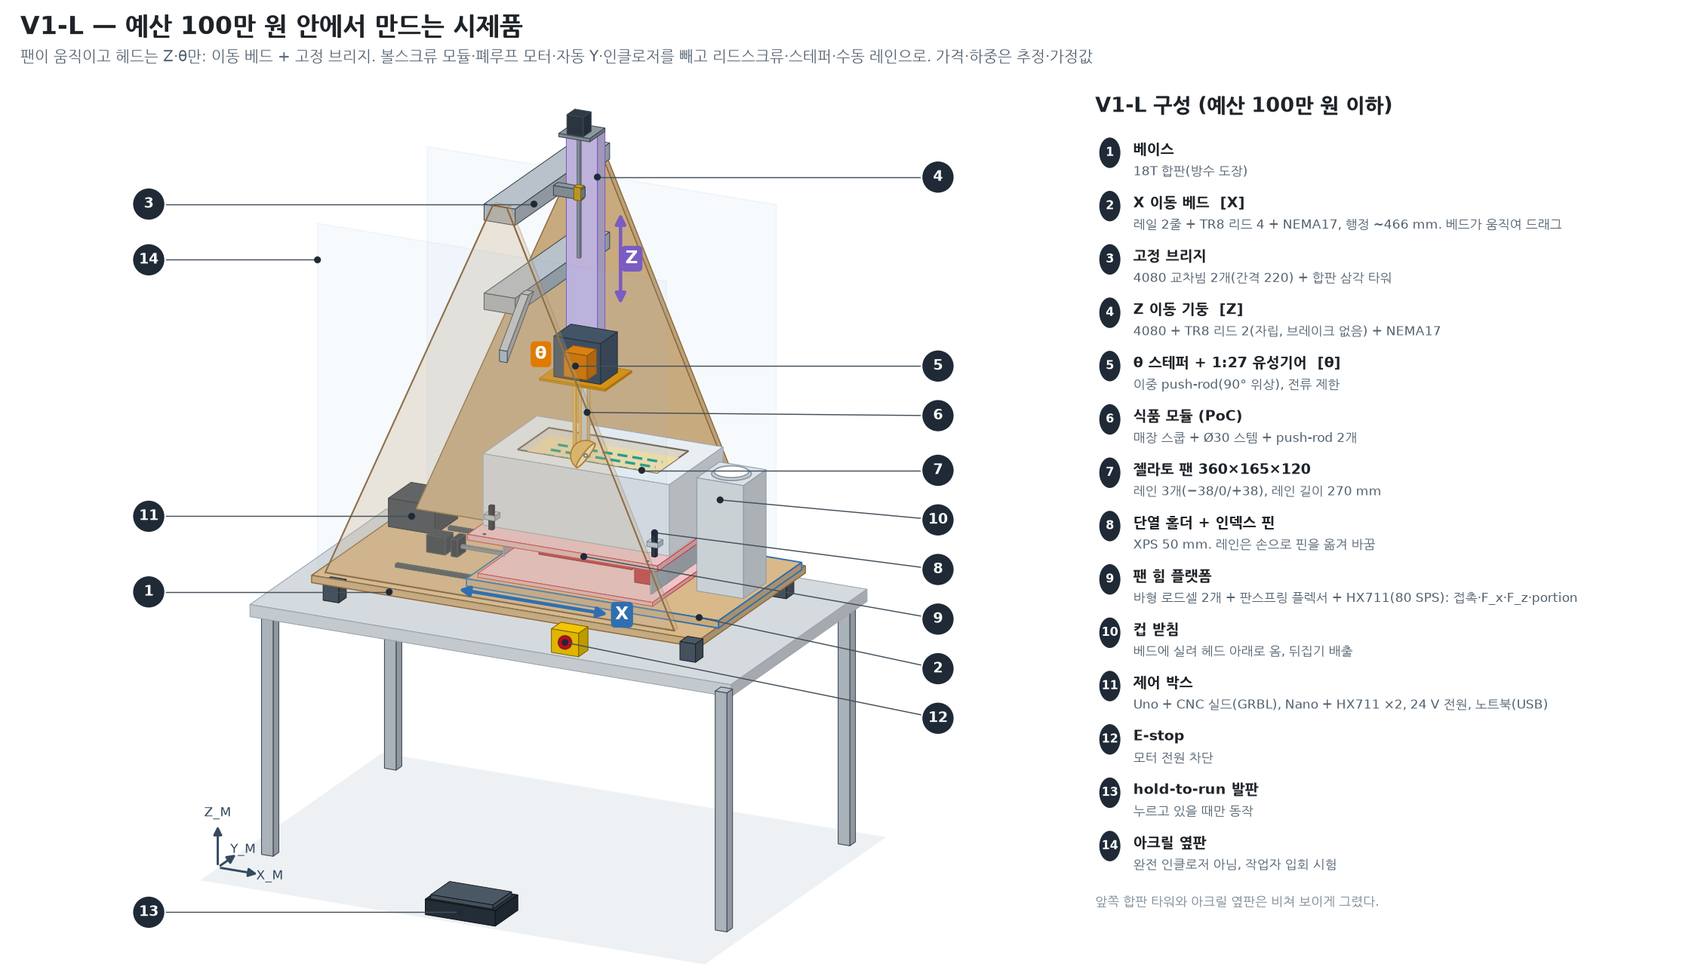
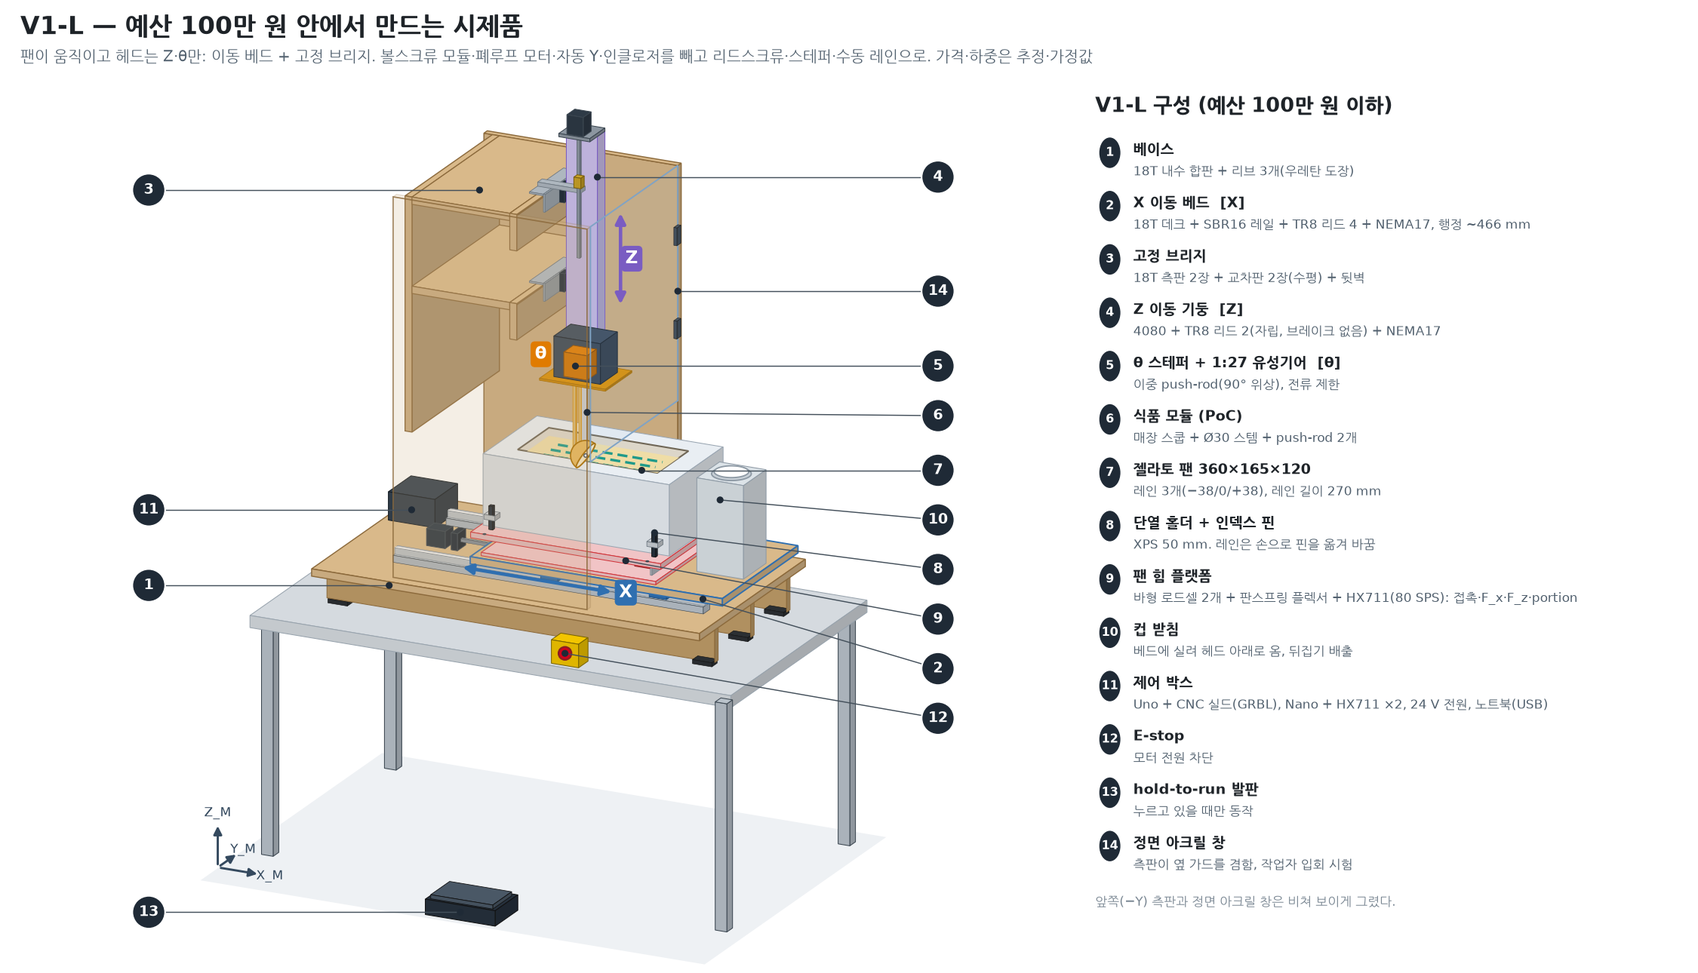
media: redraw fig9 for the plywood hybrid frame (H2)
Side plates, horizontal cross plates with lips, rear wall, front acrylic
window, ribbed base and SBR16 bed; profile variant kept behind a switch.

Claude-Session: https://claude.ai/code/session_019jk2GLkKD38rJ4jT1dmpN2

diff --git a/media/make_figures.py b/media/make_figures.py
@@ -997,11 +997,12 @@ def fig_alternatives():
 # =====================================================================================
 # Fig 9 — V1-L budget rig (<= 1,000,000 KRW): moving bed + fixed bridge
 # =====================================================================================
-V1L_FRAME = "plywood"      # base, towers, bed deck: "plywood" (18T, default) or "profile" (2040 aluminium)
+V1L_FRAME = "plywood"      # "plywood": H2 plywood hybrid (default, mech §13) / "profile": 2040 A-frame (mech §2)
 
 
 def fig_v1l(frame=None):
     FRAME = frame or V1L_FRAME
+    ply = FRAME == "plywood"
     # callouts / legend (title, description) — numbered 1..14 in this order
     items = [
         ("베이스 프레임", "2040 1000×560, 조절 발 4"),
@@ -1019,16 +1020,16 @@ def fig_v1l(frame=None):
         ("hold-to-run 발판", "누르고 있을 때만 동작"),
         ("아크릴 옆판", "완전 인클로저 아님, 작업자 입회 시험"),
     ]
-    if FRAME == "plywood":
-        items[0] = ("베이스", "18T 합판(방수 도장)")
-        items[2] = ("고정 브리지", "4080 교차빔 2개(간격 220) + 합판 삼각 타워")
+    if ply:
+        items[0] = ("베이스", "18T 내수 합판 + 리브 3개(우레탄 도장)")
+        items[1] = ("X 이동 베드  [X]", "18T 데크 + SBR16 레일 + TR8 리드 4 + NEMA17, 행정 ~466 mm")
+        items[2] = ("고정 브리지", "18T 측판 2장 + 교차판 2장(수평) + 뒷벽")
+        items[13] = ("정면 아크릴 창", "측판이 옆 가드를 겸함, 작업자 입회 시험")
     title = "V1-L — 예산 100만 원 안에서 만드는 시제품"
     subtitle = ("팬이 움직이고 헤드는 Z·θ만: 이동 베드 + 고정 브리지. 볼스크류 모듈·폐루프 모터·자동 Y·인클로저를 빼고 "
                 "리드스크류·스테퍼·수동 레인으로. 가격·하중은 추정·가정값")
     legend_head = "V1-L 구성 (예산 100만 원 이하)"
-
     C_PLY, C_PLY_E = "#D9B98A", "#8C6A3C"
-    ply = FRAME == "plywood"
 
     fig = plt.figure(figsize=(15, 8.6))
     ax = fig.add_axes([0.0, 0.0, 0.64, 0.91])
@@ -1036,25 +1037,31 @@ def fig_v1l(frame=None):
     ax.axis("off")
     A = m3.Axo(26.0, 20.0)
 
-    # ---- geometry (mm, pan rim z = 0, X = drag / bed direction; values from _chief/work/mech/v1l_mech.md §2)
-    FLOOR, BENCH = -1000.0, -380.0             # bench top lowered so the base top sits 315 below the pan rim
-    BASE_TOP = -315.0                           # tower top 955 above the base = z_u 640
-    BX0, BX1, BY = -500.0, 500.0, 280.0         # base 1000 x 560
-    XB = -30.0                                  # bridge (tower apex / beam) centre X
-    Z_L, Z_U = 420.0, 640.0                     # 4080 cross-beam centre heights, 80 face along X
-    TY = 240.0                                  # towers at y = +-240
+    # ---- geometry (mm, pan rim z = 0, X = drag / bed direction, +X = front of the bridge; _chief/work/mech/v1l_mech.md)
+    FLOOR = -1000.0
+    Z_L, Z_U = 420.0, 640.0                     # lower / upper cross member level
+    TY = 240.0                                  # side plates / towers at y = +-240
     X, Z, TH = 70.0, -20.0, -30.0               # scoop pivot C (column centre), attack pose
+    BX0, BX1, BY = -500.0, 500.0, 280.0         # base 1000 x 560
+    RAIL_X = (-350.0, 450.0)
+    if ply:                                     # H2 (§13.2): rim 299 above the base top
+        BASE_TOP, BENCH = -299.0, -407.0        # board 18T on ribs 80 + rubber pads 10
+        XB = X - 125.0                          # bridge centre: column 25 in front of the cross-plate front edge
+        XF = XB + 60.0                          # cross-plate front (+X) edge
+        DECK = (-254.0, -236.0)                 # 18T deck on SBR16UU (45 above the base)
+        DECK_Y = 200.0                          # 650 x 400 -> 31 mm gap to the side plates
+    else:                                       # §2 sketch: tower top 955 above the base = z_u 640
+        BASE_TOP, BENCH = -315.0, -380.0
+        XB = -30.0
+        DECK = (-282.0, -276.0)                 # 6T deck on a 2040 bed frame
+        DECK_Y = 220.0
     B0 = X - 200.0                              # bed origin: lane start (local 110) + 90 under the head
     HX0, HX1, HW = B0 + 5, B0 + 485, 142.5      # insulated holder 480 x 285
     PX0, PX1, PW = B0 + 65, B0 + 425, 82.5      # gelato pan 360 x 165 (half width)
     LX0, LX1 = B0 + 110, B0 + 380               # lanes, 270 mm
     CUPX = B0 + 576                             # cup centre: 466 from the lane start
-    RAIL_X = (-350.0, 450.0)
-    if ply:
-        DECK = (-302.0, -284.0)                 # 18T plywood deck on the blocks
-    else:
-        DECK = (-282.0, -276.0)                 # 6T deck on a 2040 bed frame
     PLAT_TOP = -176.0                           # holder bottom (XPS 50 + ply 6 below the pan floor)
+    PLAT_Y = DECK_Y - 2 if ply else 215.0
     COL = (X - 40, X + 40, -20.0, 20.0, Z + 300, Z + 800)     # 4080 Z column, 500 long
 
     def shade(n):
@@ -1092,26 +1099,21 @@ def fig_v1l(frame=None):
         nx, nz = -(z1 - z0) / L * w / 2, (x1 - x0) / L * w / 2
         slab([(x0 + nx, z0 + nz), (x1 + nx, z1 + nz), (x1 - nx, z1 - nz), (x0 - nx, z0 - nz)], "xz", y0, y1, color, **kw)
 
-    def tower(ys, alpha=1.0):
-        y0, y1 = (ys * TY - 9, ys * TY + 9) if ply else (ys * TY - 10, ys * TY + 10)
-        if ply:
-            slab([(XB - 450, BASE_TOP), (XB + 450, BASE_TOP), (XB + 18, Z_U + 20), (XB - 18, Z_U + 20)], "xz", y0, y1,
-                 C_PLY, ec=C_PLY_E, lw=0.7, alpha=alpha)
-        else:
-            for s in (-1, 1):
-                bar_xz((XB + s * 450, BASE_TOP), (XB + s * 12, Z_U + 20), 40, y0, y1, m.C_ALU)
-            hw = 450 * (Z_U - Z_L) / (Z_U - BASE_TOP) + 20
-            A.box(XB - hw, XB + hw, y0, y1, Z_L - 20, Z_L + 20, m.C_ALU)                  # horizontal tie at z_l
-            A.box(XB - 10, XB + 10, y0, y1, Z_L + 20, Z_U - 20, m.C_ALU)                  # post tie -> apex
-        # 2020 knee brace between the tower and the lower cross beam (side force): under the beam on the
-        # plywood plate (as in the mech sketch), above it on the profile post (no member below z_l there)
-        if ply:
-            kb = [(ys * (TY - 10), Z_L - 150), (ys * (TY - 10), Z_L - 122), (ys * (TY - 122), Z_L - 20),
-                  (ys * (TY - 150), Z_L - 20)]
-        else:
-            kb = [(ys * (TY - 12), Z_L + 150), (ys * (TY - 12) - ys * 8, Z_L + 162), (ys * (TY - 130), Z_L + 28),
-                  (ys * (TY - 118), Z_L + 16)]
-        slab(kb, "yz", XB - 10, XB + 10, m.C_ALU)
+    def side_plate(ys, alpha=1.0):
+        """H2: rectangular 18T side plate 500 (X) x 939 (Z) = tower + side guard."""
+        A.box(XB - 250, XB + 250, ys * TY - 9, ys * TY + 9, BASE_TOP, BASE_TOP + 939, C_PLY, ec=C_PLY_E, lw=0.7,
+              alpha=alpha)
+
+    def a_frame(ys):
+        """Profile variant: 2040 A-frame tower with tie at z_l, post and a 2020 knee brace to the lower beam."""
+        y0, y1 = ys * TY - 10, ys * TY + 10
+        for s in (-1, 1):
+            bar_xz((XB + s * 450, BASE_TOP), (XB + s * 12, Z_U + 20), 40, y0, y1, m.C_ALU)
+        hw = 450 * (Z_U - Z_L) / (Z_U - BASE_TOP) + 20
+        A.box(XB - hw, XB + hw, y0, y1, Z_L - 20, Z_L + 20, m.C_ALU)                      # horizontal tie at z_l
+        A.box(XB - 10, XB + 10, y0, y1, Z_L + 20, Z_U - 20, m.C_ALU)                      # post tie -> apex
+        slab([(ys * (TY - 12), Z_L + 150), (ys * (TY - 12) - ys * 8, Z_L + 162), (ys * (TY - 130), Z_L + 28),
+              (ys * (TY - 118), Z_L + 16)], "yz", XB - 10, XB + 10, m.C_ALU)
 
     # ---- floor, bench, foot switch
     FL = [(-650, -560, FLOOR), (650, -560, FLOOR), (650, 400, FLOOR), (-650, 400, FLOOR)]
@@ -1124,55 +1126,77 @@ def fig_v1l(frame=None):
     A.box(-70, 90, -532, -432, FLOOR + 38, FLOOR + 48, "#4A5866", ec="#111", lw=0.4)
     A.draw(ax, A.flush(), 1)
 
-    # ---- acrylic side panel at +Y (behind everything)
-    back = A.pts([(XB - 450, BY + 10, BASE_TOP), (XB + 450, BY + 10, BASE_TOP), (XB + 450, BY + 10, 560),
-                  (XB - 450, BY + 10, 560)])
-    ax.add_patch(Polygon(back, closed=True, fc="#9CC0E6", ec="#7FA3C6", lw=0.8, alpha=0.08, zorder=1.5))
+    if not ply:                                                                              # acrylic side panel at +Y
+        back = A.pts([(XB - 450, BY + 10, BASE_TOP), (XB + 450, BY + 10, BASE_TOP), (XB + 450, BY + 10, 560),
+                      (XB - 450, BY + 10, 560)])
+        ax.add_patch(Polygon(back, closed=True, fc="#9CC0E6", ec="#7FA3C6", lw=0.8, alpha=0.08, zorder=1.5))
 
-    # ---- base, feet, rails, X screw + motor, control box, back tower
-    for fx in (BX0 + 20, BX1 - 60):
-        for fy in (-BY + 20, BY - 60):
-            A.box(fx, fx + 40, fy, fy + 40, BENCH, BASE_TOP - 20, "#4A5866", ec="#222")      # levelling feet
+    # ---- base (first: its large top face must not sort over the parts on it)
     if ply:
+        for yr in (-190.0, 0.0, 190.0):                                                      # ribs 18 x 80 x 1000
+            A.box(BX0, BX1, yr - 9, yr + 9, BASE_TOP - 98, BASE_TOP - 18, "#BF9C68", ec=C_PLY_E, lw=0.5)
+            for x0 in (BX0 + 5, BX1 - 55):                                                   # rubber pads
+                A.box(x0, x0 + 50, yr - 14, yr + 14, BENCH, BASE_TOP - 98, "#2B2F33", ec="#111", lw=0.3)
+        A.draw(ax, A.flush(), 1.85)
         A.box(BX0, BX1, -BY, BY, BASE_TOP - 18, BASE_TOP, C_PLY, ec=C_PLY_E, lw=0.7)
     else:
+        for fx in (BX0 + 20, BX1 - 60):
+            for fy in (-BY + 20, BY - 60):
+                A.box(fx, fx + 40, fy, fy + 40, BENCH, BASE_TOP - 20, "#4A5866", ec="#222")  # levelling feet
         for y0 in (-BY, BY - 40, -160, 120):
             A.box(BX0, BX1, y0, y0 + 40, BASE_TOP - 20, BASE_TOP, m.C_ALU)
         for x0 in (BX0, BX1 - 40, -350):
             A.box(x0, x0 + 40 if x0 != -350 else -330, -BY + 40, BY - 40, BASE_TOP - 20, BASE_TOP, m.C_ALU)
-    A.draw(ax, A.flush(), 1.9)                  # base first: its large top face must not sort over the parts on it
+    A.draw(ax, A.flush(), 1.9)
+
+    # ---- rails, X screw + motor, control box, back tower / far side plate + rear wall
     for yr in (-140.0, 140.0):
-        A.box(*RAIL_X, yr - 6, yr + 6, BASE_TOP, BASE_TOP + 8, "#44505b", lw=0.3)            # linear rails
-    A.box(-250, 350, -4, 4, -299, -291, "#8C96A0", lw=0.2)                                   # TR8 lead 4 x 600
-    A.box(-266, -250, -22, 22, BASE_TOP, -273, "#26313D")                                    # KFL08 (fixed end)
-    A.box(350, 362, -18, 18, BASE_TOP, -277, "#26313D")                                      # far support
-    A.box(-330, -282, -21, 21, BASE_TOP, -273, "#2E3A46")                                    # X NEMA17
+        if ply:                                                                              # SBR16: support + round bar
+            A.box(*RAIL_X, yr - 17, yr + 17, BASE_TOP, BASE_TOP + 17, m.C_ALU, lw=0.3)
+            A.box(*RAIL_X, yr - 8, yr + 8, BASE_TOP + 17, BASE_TOP + 33, "#C9CED4", ec="#7a858f", lw=0.3)
+        else:
+            A.box(*RAIL_X, yr - 6, yr + 6, BASE_TOP, BASE_TOP + 8, "#44505b", lw=0.3)        # MGN12 rails
+    A.box(-250, 350, -4, 4, BASE_TOP + 16, BASE_TOP + 24, "#8C96A0", lw=0.2)                 # TR8 lead 4 x 600
+    A.box(-266, -250, -22, 22, BASE_TOP, BASE_TOP + 42, "#26313D")                           # KFL08 (fixed end)
+    A.box(350, 362, -18, 18, BASE_TOP, BASE_TOP + 38, "#26313D")                             # far support
+    A.box(-330, -282, -21, 21, BASE_TOP, BASE_TOP + 42, "#2E3A46")                           # X NEMA17
     A.box(-485, -365, 95, 215, BASE_TOP, BASE_TOP + 70, "#34414E", ec="#161d24")             # control box
     A.box(-470, -440, 95, 99, BASE_TOP + 44, BASE_TOP + 56, "#4CAF50", ec="none")           # status LED strip
-    tower(+1)
+    if ply:
+        side_plate(+1)
+        A.box(XF - 288, XF - 270, -TY + 9, TY - 9, 60, Z_U, C_PLY, ec=C_PLY_E, lw=0.7)      # rear wall 462 x 580
+    else:
+        a_frame(+1)
     A.draw(ax, A.flush(), 2)
+    if ply:                                                                                  # highlight on the round bars
+        for yr in (-140.0, 140.0):
+            q = A.pts([(RAIL_X[0], yr - 3, BASE_TOP + 33), (RAIL_X[1], yr - 3, BASE_TOP + 33)])
+            ax.plot(q[:, 0], q[:, 1], color="white", lw=0.6, alpha=0.9, zorder=2.05)
 
     # ---- X bed (moving), force platform, insulated holder, pan, index pins, cup holder
     for yr in (-140.0, 140.0):
         for bx in (185.0, 465.0):
-            A.box(B0 + bx - 22, B0 + bx + 22, yr - 13, yr + 13, BASE_TOP + 4, DECK[0], m.C_X, ec="#1E4E80")
+            b_z0 = BASE_TOP + 22 if ply else BASE_TOP + 4                                     # SBR16UU / MGN12H
+            A.box(B0 + bx - 22, B0 + bx + 22, yr - 22 if ply else yr - 13, yr + 22 if ply else yr + 13, b_z0,
+                  DECK[0], m.C_X, ec="#1E4E80")
     if not ply:
         for yr in (-140.0, 140.0):
             A.box(B0, B0 + 650, yr - 20, yr + 20, DECK[0] - 20, DECK[0], m.C_X, ec="#1E4E80")
     A.draw(ax, A.flush(), 2.9)
-    if ply:
-        A.box(B0, B0 + 650, -220, 220, *DECK, C_PLY, ec=m.C_X, lw=0.9)
-    else:
-        A.box(B0, B0 + 650, -220, 220, *DECK, "#D6E4F3", ec=m.C_X, lw=0.9)
+    A.box(B0, B0 + 650, -DECK_Y, DECK_Y, *DECK, C_PLY if ply else "#D6E4F3", ec=m.C_X, lw=0.9)
     A.draw(ax, A.flush(), 3.0)
     d1 = DECK[1]
-    A.box(B0 + 20, B0 + 470, -200, 200, d1, d1 + 10, "#F1C4C6", ec=m.C_SENSOR)              # platform base plate
-    A.box(B0 + 90, B0 + 330, -22, 22, d1 + 10, d1 + 42, m.C_SENSOR, ec="#8a1f23")           # bar cell, vertical
-    A.box(B0 + 380, B0 + 420, -110, 110, d1 + 16, PLAT_TOP - 30, m.C_SENSOR, ec="#8a1f23")  # bar cell, X (upright)
-    A.box(B0 + 60, B0 + 64, -150, 150, d1 + 42, PLAT_TOP - 14, "#B7BEC5", ec="#6d7780", lw=0.3)  # leaf-spring flexures
-    A.box(B0 + 440, B0 + 444, -150, 150, d1 + 10, PLAT_TOP - 14, "#B7BEC5", ec="#6d7780", lw=0.3)
+    if ply:     # 60 mm stack: base plate, bar cell (vertical), bar cell (X, upright), flexures, top plate
+        cz = (d1 + 8, d1 + 28, d1 + 8, PLAT_TOP - 12)
+    else:
+        cz = (d1 + 10, d1 + 42, d1 + 16, PLAT_TOP - 30)
+    A.box(B0 + 20, B0 + 470, -PLAT_Y + 15, PLAT_Y - 15, d1, cz[0], "#F1C4C6", ec=m.C_SENSOR)   # platform base plate
+    A.box(B0 + 90, B0 + 330, -22, 22, cz[0], cz[1], m.C_SENSOR, ec="#8a1f23")                # bar cell, vertical
+    A.box(B0 + 380, B0 + 420, -110, 110, cz[2], cz[3], m.C_SENSOR, ec="#8a1f23")             # bar cell, X
+    A.box(B0 + 60, B0 + 64, -150, 150, cz[1], PLAT_TOP - 14, "#B7BEC5", ec="#6d7780", lw=0.3)  # leaf-spring flexures
+    A.box(B0 + 440, B0 + 444, -150, 150, cz[0], PLAT_TOP - 14, "#B7BEC5", ec="#6d7780", lw=0.3)
     A.draw(ax, A.flush(), 3.05)
-    A.box(B0, B0 + 490, -215, 215, PLAT_TOP - 14, PLAT_TOP, "#F1C4C6", ec=m.C_SENSOR)      # platform top plate
+    A.box(B0, B0 + 490, -PLAT_Y, PLAT_Y, PLAT_TOP - 14, PLAT_TOP, "#F1C4C6", ec=m.C_SENSOR)  # platform top plate
     A.draw(ax, A.flush(), 3.1)
     for xp in (HX0 + 30, HX1 - 30):                                                          # index holes (other lanes)
         for dy in (-38.0, 38.0):
@@ -1199,17 +1223,32 @@ def fig_v1l(frame=None):
     ax.add_patch(Polygon(A.rim_ellipse(CUPX, 0, -5, 46), closed=True, fc="#c9d1d8", ec="#8E9AA5", lw=0.9, zorder=3.4))
     ax.add_patch(Polygon(A.rim_ellipse(CUPX, 0, 0, 40), closed=True, fc="white", ec="#8E9AA5", lw=0.9, zorder=3.45))
 
-    # ---- fixed bridge: two 4080 cross beams (80 along X), then the Z column in front (+X) of them
-    for zc in (Z_L, Z_U):
-        A.box(XB - 40, XB + 40, -TY - 10, TY + 10, zc - 20, zc + 20, m.C_ALU)
-    A.draw(ax, A.flush(), 4)
+    # ---- fixed bridge members behind the Z column, then the column (it sits in front, +X, of them)
+    if ply:
+        for zt in (Z_L, Z_U):                                     # cross plate 462 x 270 + front lip 462 x 90, 18T
+            A.box(XF - 270, XF - 18, -TY + 9, TY - 9, zt - 18, zt, C_PLY, ec=C_PLY_E, lw=0.6)
+            A.box(XF - 18, XF, -TY + 9, TY - 9, zt - 90, zt, C_PLY, ec=C_PLY_E, lw=0.6)
+        A.draw(ax, A.flush(), 4)
+        for zt in (Z_L, Z_U):                                     # Al angle 40x40x4 + Z block (MGN12H)
+            A.box(XF - 36, XF, -90, 90, zt, zt + 4, "#AEB7BF", ec="#6d7780", lw=0.4)
+            A.box(XF, XF + 4, -90, 90, zt - 40, zt + 4, "#AEB7BF", ec="#6d7780", lw=0.4)
+            A.box(XF + 4, XF + 17, -13.5, 13.5, zt - 40, zt + 5, "#26313D", lw=0.3)
+        A.draw(ax, A.flush(), 4.05)
+    else:
+        for zc in (Z_L, Z_U):                                     # 4080 cross beams, 80 face along X
+            A.box(XB - 40, XB + 40, -TY - 10, TY + 10, zc - 20, zc + 20, m.C_ALU)
+        A.draw(ax, A.flush(), 4)
     A.box(*COL, m.C_Z_L, ec=m.C_Z)                                                           # 4080 Z column (moves)
     A.draw(ax, A.flush(), 4.1)
     A.box(COL[0], COL[1], -60, 20, COL[5], COL[5] + 8, "#8C96A0")                            # motor plate
     A.box(X - 21, X + 21, -56, -14, COL[5] + 8, COL[5] + 56, "#2E3A46")                      # Z NEMA17
     A.box(X - 4, X + 4, -39, -31, COL[5] - 300, COL[5], "#8C96A0", lw=0.2)                   # TR8 lead 2 x 300
-    A.box(XB + 40, X + 10, -47, -23, Z_U - 12, Z_U + 12, "#8C96A0")                          # nut bracket on z_u beam
-    A.box(X - 9, X + 9, -44, -26, Z_U - 16, Z_U + 16, "#C9A227", ec="#7a5f10")               # brass nut
+    if ply:
+        A.box(XF - 36, X + 10, -47, -23, Z_U + 4, Z_U + 14, "#AEB7BF", ec="#6d7780", lw=0.4)  # nut angle on z_u plate
+        A.box(X - 9, X + 9, -44, -26, Z_U + 14, Z_U + 40, "#C9A227", ec="#7a5f10")          # brass nut
+    else:
+        A.box(XB + 40, X + 10, -47, -23, Z_U - 12, Z_U + 12, "#8C96A0")                      # nut bracket on z_u beam
+        A.box(X - 9, X + 9, -44, -26, Z_U - 16, Z_U + 16, "#C9A227", ec="#7a5f10")           # brass nut
     A.draw(ax, A.flush(), 4.2)
 
     # ---- head: theta stepper + 1:27, drip umbrella, stem, dual push-rods, scoop
@@ -1224,21 +1263,31 @@ def fig_v1l(frame=None):
     A.draw(ax, A.flush(), 5)
     m3.draw_scoop3d(ax, A, X, 0.0, Z, TH, zorder=6)
 
-    # ---- front tower (y = -240) + safety parts in front
-    tower(-1, alpha=0.28 if ply else 1.0)
-    A.draw(ax, A.flush(), 6.6)
-    if ply:                                                                                  # outline of the see-through plate
-        q = A.pts([(XB - 450, -TY - 9, BASE_TOP), (XB + 450, -TY - 9, BASE_TOP), (XB + 18, -TY - 9, Z_U + 20),
-                   (XB - 18, -TY - 9, Z_U + 20)])
-        ax.add_patch(Polygon(q, closed=True, fc="none", ec=C_PLY_E, lw=1.0, zorder=6.7))
+    # ---- near side plate / front tower (y = -240), guards, E-stop
+    if ply:
+        side_plate(-1, alpha=0.2)
+        A.draw(ax, A.flush(), 6.6)
+        q = A.pts([(XB - 250, -TY - 9, BASE_TOP), (XB + 250, -TY - 9, BASE_TOP), (XB + 250, -TY - 9, BASE_TOP + 939),
+                   (XB - 250, -TY - 9, BASE_TOP + 939)])
+        ax.add_patch(Polygon(q, closed=True, fc="none", ec=C_PLY_E, lw=0.8, alpha=0.75, zorder=6.7))  # see-through outline
+        win = A.pts([(XB + 250, -TY + 9, 60), (XB + 250, TY - 9, 60), (XB + 250, TY - 9, Z_U), (XB + 250, -TY + 9, Z_U)])
+        ax.add_patch(Polygon(win, closed=True, fc="#9CC0E6", ec="#7FA3C6", lw=0.9, alpha=0.1, zorder=8))
+        ax.add_patch(Polygon(win, closed=True, fc="none", ec="#7FA3C6", lw=0.9, zorder=8.05))
+        for zh in (220.0, 450.0):                                                            # hinges on the far edge
+            A.box(XB + 250, XB + 258, TY - 30, TY - 9, zh, zh + 44, "#4A5866", ec="#222", lw=0.3)
+        A.draw(ax, A.flush(), 8.1)
+    else:
+        a_frame(-1)
+        A.draw(ax, A.flush(), 6.6)
     A.box(150, 220, -345, -295, BENCH, BENCH + 58, "#F2C500", ec="#7a6400")                 # E-stop housing
     A.draw(ax, A.flush(), 7)
     es = A.proj((185, -345, BENCH + 30))
     ax.add_patch(Circle(es[:2], 17, fc="#8a1f23", ec="none", zorder=7.1))
     ax.add_patch(Circle(es[:2], 13, fc="#D0021B", ec="none", zorder=7.2))
-    front = A.pts([(XB - 450, -BY - 10, BASE_TOP), (XB + 450, -BY - 10, BASE_TOP), (XB + 450, -BY - 10, 560),
-                   (XB - 450, -BY - 10, 560)])
-    ax.add_patch(Polygon(front, closed=True, fc="#9CC0E6", ec="#7FA3C6", lw=0.8, alpha=0.08, zorder=8))
+    if not ply:                                                                              # acrylic side panel at -Y
+        front = A.pts([(XB - 450, -BY - 10, BASE_TOP), (XB + 450, -BY - 10, BASE_TOP), (XB + 450, -BY - 10, 560),
+                       (XB - 450, -BY - 10, 560)])
+        ax.add_patch(Polygon(front, closed=True, fc="#9CC0E6", ec="#7FA3C6", lw=0.8, alpha=0.08, zorder=8))
 
     # ---- axis arrows (bed X, column Z) and the theta tag
     def arr(p0, p1, lab, col, at=1.0, off=(0, 0)):
@@ -1247,7 +1296,7 @@ def fig_v1l(frame=None):
         ax.text(a_[0] + (b_[0] - a_[0]) * at + off[0], a_[1] + (b_[1] - a_[1]) * at + off[1], lab, color="white",
                 fontsize=11, fontweight="bold", ha="center", va="center", zorder=13,
                 bbox=dict(fc=col, ec=col, boxstyle="round,pad=0.2"))
-    arr((B0 - 20, -236, DECK[0] - 5), (B0 + 380, -236, DECK[0] - 5), "X", m.C_X, 1.0, (26, 0))
+    arr((B0 - 20, -DECK_Y - 16, DECK[0] - 5), (B0 + 380, -DECK_Y - 16, DECK[0] - 5), "X", m.C_X, 1.0, (26, 0))
     arr((X + 90, 0, Z + 380), (X + 90, 0, Z + 620), "Z", m.C_Z, 0.5, (26, 0))
     q = A.proj((X - 60, -45, Z + 255))
     ax.text(q[0] - 30, q[1], "θ", color="white", fontsize=11, fontweight="bold", ha="center", va="center", zorder=13,
@@ -1257,11 +1306,13 @@ def fig_v1l(frame=None):
 
     # ---- numbered callouts, two columns
     calls = [
-        (1, (-300, -BY, BASE_TOP - 9)), (2, (B0 + 600, -220, DECK[1])), (3, (XB + 40, -150, Z_U)),
+        (1, (-300, -BY, BASE_TOP - 9)), (2, (B0 + 600, -DECK_Y, 0.5 * (DECK[0] + DECK[1]) if ply else DECK[1])),
+        (3, (XF - 150, -120, Z_U) if ply else (XB + 40, -150, Z_U)),
         (4, (X + 40, -20, Z + 700)), (5, (X + 20, -95, Z + 255)), (6, (X + 7.5, -7.5, Z + 110)),
-        (7, (PX1 - 40, -PW, 0)), (8, (HX1 - 30, -HW - 16, -118)), (9, (B0 + 300, -215, PLAT_TOP - 7)),
+        (7, (PX1 - 40, -PW, 0)), (8, (HX1 - 30, -HW - 16, -118)), (9, (B0 + 300, -PLAT_Y, PLAT_TOP - 7) if not ply else (B0 + 400, -PLAT_Y, PLAT_TOP - 7)),
         (10, (CUPX, -60, -50)), (11, (-425, 95, BASE_TOP + 35)), (12, (185, -345, BENCH + 30)),
-        (13, (10, -540, FLOOR + 20)), (14, (XB - 450, -BY - 10, 470)),
+        (13, (10, -540, FLOOR + 20)),
+        (14, (XB + 250, TY - 9, 330) if ply else (XB - 450, -BY - 10, 470)),
     ]
     anchors = {n: A.proj(p3)[:2] for n, p3 in calls}
     P = A.pts(FL + [(X, -14, COL[5] + 70)])
@@ -1297,7 +1348,7 @@ def fig_v1l(frame=None):
         lg.text(0.065, y, a_, fontsize=9.3, va="top", color=m.C_TEXT, fontweight="bold")
         lg.text(0.065, y - 0.027, b_, fontsize=8.2, va="top", color="#51606e")
     if ply:
-        lg.text(0.0, 0.03, "앞쪽 합판 타워와 아크릴 옆판은 비쳐 보이게 그렸다.", fontsize=8, va="bottom", color="#7a8793")
+        lg.text(0.0, 0.03, "앞쪽(−Y) 측판과 정면 아크릴 창은 비쳐 보이게 그렸다.", fontsize=8, va="bottom", color="#7a8793")
     fig.text(0.012, 0.965, title, fontsize=16, fontweight="bold", color=m.C_TEXT)
     fig.text(0.012, 0.937, subtitle, fontsize=9.5, color="#51606e")
     save(fig, "fig9_v1l_budget_rig.png")
